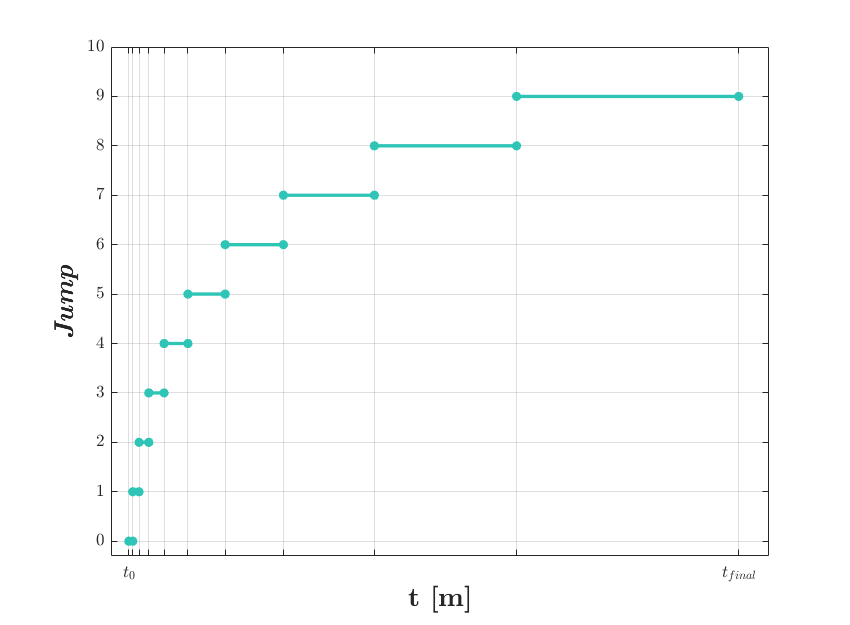
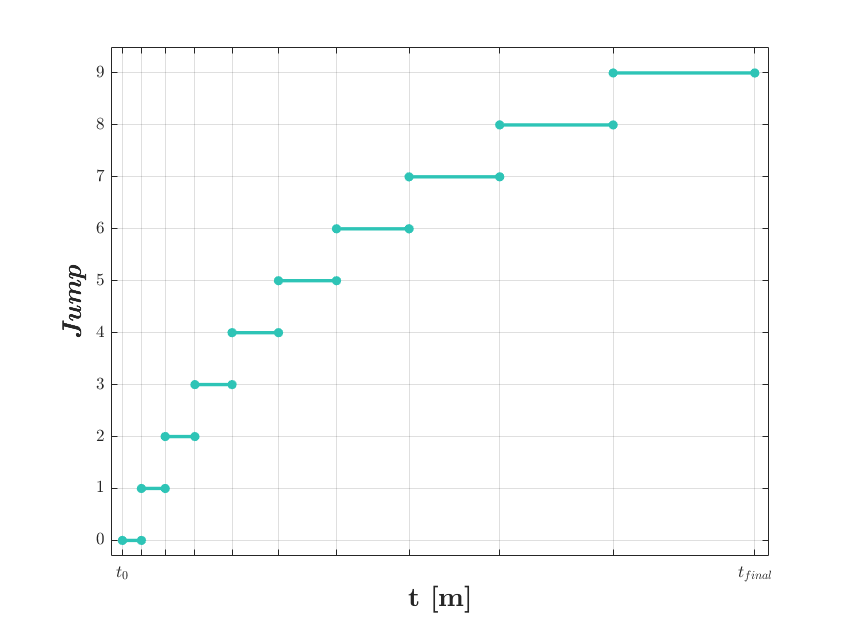
commit

diff --git a/SourceCode/MATLAB/P4.m b/SourceCode/MATLAB/P4.m
@@ -6,11 +6,11 @@ clear; clc; close all;
 
 %init
 Altura = 10;
-V = 0;
+V = 15;
 K = -0.8;
 
 %% run Sim
-out = sim("P4simulink2022a", 20); %8.5
+out = sim("P4simulink2022a", 20.35); %8.5
 
 %% Plot
 figure(1);
@@ -67,42 +67,55 @@ figure(3)
 set(gcf, 'Position',  [100, 100, 680, 500])
 
 subplot(2,1,1)
-plot(out.t,out.y, Color="#2C73D2", LineWidth=1.5);
+plot(out.t,out.y, Color="#2C73D2", LineWidth=1.5); hold on
+plot(20.3576369894,out.y(end),'r.',MarkerSize=15); hold off;
 
 xlabel('\textbf{$\mathbf{t}$ [s]}','interpreter','latex','FontSize',16)
 ylabel('\textbf{$\mathbf{y}$ [m]}','interpreter','latex','FontSize',16);
 
-xlim([0 11.7]);
+xlim([0 21]);
 grid on; grid minor;
 
 subplot(2,1,2)
-plot(out.t,out.vy,Color="#2C73D2",LineWidth=1.5);
+plot(out.t,out.vy,Color="#2C73D2",LineWidth=1.5); hold on
+plot(20.3576369894,out.vy(end),'r.',MarkerSize=15); hold off;
 
 xlabel('\textbf{$\mathbf{t}$ [s]}','interpreter','latex','FontSize',16)
 ylabel('\textbf{$\mathbf{v_y}$ [ms$^{-1}$]}','interpreter','latex','FontSize',16);
 
-xlim([0 11.7]);
+legend({'','\textbf{Marcador de Zeno}'}, ...
+            'Interpreter', 'latex', 'Location','best');
+
+xlim([0 21]);
 grid on; grid minor;
 
-
+%%
 figure(4)
 set(gcf, 'Position',  [100, 100, 680, 500])
 
 subplot(2,1,1)
-plot(out.t,out.Altura, Color="#2C73D2", LineWidth=1.5);
+plot(out.t,out.Altura, Color="#2C73D2", LineWidth=1.5);hold on;
+plot(20.3576369894,0,'r*',MarkerSize=10); hold off;
 
 xlabel('\textbf{$\mathbf{t}$ [s]}','interpreter','latex','FontSize',16)
 ylabel('\textbf{$\mathbf{z}$ [m]}','interpreter','latex','FontSize',16);
 
-xlim([0 11.7]);
+legend({'','\textbf{Marcador de Zeno}'}, ...
+            'Interpreter', 'latex', 'Location','best');
+
+xlim([0 21]);
 grid on; grid minor;
 
 subplot(2,1,2)
-plot(out.t,out.velocidade,Color="#2C73D2",LineWidth=1.5);
+plot(out.t,out.velocidade,Color="#2C73D2",LineWidth=1.5); hold on;
+plot(20.3576369894,0,'r*',MarkerSize=10); hold off;
 
 xlabel('\textbf{$\mathbf{t}$ [s]}','interpreter','latex','FontSize',16)
 ylabel('\textbf{$\mathbf{v_z}$ [ms$^{-1}$]}','interpreter','latex','FontSize',16);
 
-xlim([0 11.7]);
+legend({'','\textbf{Marcador de Zeno}'}, ...
+            'Interpreter', 'latex', 'Location','best');
+
+xlim([0 21]);
 grid on; grid minor;
 

diff --git a/SourceCode/MATLAB/ZenoPlot.m b/SourceCode/MATLAB/ZenoPlot.m
@@ -8,12 +8,12 @@ V = 15;
 K = -0.8;
 
 %% run Sim
-out = sim('P4simulink2022a',172);
+out = sim('P4simulink2022a',21);
 
 %%
 k = 1;
-for i = 1:1:length(out.Altura)
-    if(out.y(i)<=0 || out.y(i)>=2)
+for i = 1:1:length(out.y)
+    if(out.y(i)<=0 || out.y(i)>=1)
         indexArray(k) = i;
         k = k+1;
     end
@@ -42,27 +42,26 @@ ylabel("\textbf{\textit{Jump}}",'interpreter','latex','FontSize',16);
 xlabel("\textbf{t [m]}",'interpreter','latex','FontSize',16)
 
 grid; 
-ylim([-0.3 10]);
-xlim([-5 180])
+ylim([-0.3 9.5]);
+xlim([-0.3 17])
 %%
 
 figure(2);
 set(groot,'defaultAxesTickLabelInterpreter','latex');
 set(gcf, 'Position',  [100, 100, 680, 500])
 
-indexArray = find(out.Altura==0);
 
-plot([0 out.t(indexArray(1))],[0 0], LineWidth=2, Color="#2EC4B6"); hold on;
-plot(0,0,'o',MarkerSize=5,MarkerFaceColor="#2EC4B6", MarkerEdgeColor="#2EC4B6"); hold on;
-plot(out.t(indexArray(1)),0,'o',MarkerSize=5,MarkerFaceColor="#2EC4B6", MarkerEdgeColor="#2EC4B6"); hold on;
+a = find(out.Altura==0);
 
-for i = 2:1:(length(indexArray)-1)
+indexArray = zeros(1,568);
+indexArray(1) = 1;
+indexArray(2:end) = a';
+
+for i = 1:1:12
     plot([out.t(indexArray(i)) out.t(indexArray(i+1))],[i-1 i-1], LineWidth=2, Color="#2EC4B6"); hold on;
     plot(out.t(indexArray(i)),i-1,'o',MarkerSize=5,MarkerFaceColor="#2EC4B6", MarkerEdgeColor="#2EC4B6"); hold on;
     plot(out.t(indexArray(i+1)),i-1,'o',MarkerSize=5,MarkerFaceColor="#2EC4B6", MarkerEdgeColor="#2EC4B6"); hold on;
 end
-%xline()
-hold off
 
 Ticks(1) = 0;
 
@@ -73,20 +72,22 @@ for i = 2:1:length(indexArray)
     Ticks(i) = out.t(indexArray(i));
 end
 
+plot(out.t(indexArray(500)),13,'o',MarkerSize=5,MarkerFaceColor="#2EC4B6", MarkerEdgeColor="#2EC4B6"); hold on;
+hold off
+
 xticks(Ticks);
-yticks([0,1,2,3,4,5,6,7,8,9,10,11]);
+yticks([0,1,2,3,4,5,6,7,8,9,10,11,13]);
 xticklabels({'$t_0$','','','','','','','', ...
     '','','','','','','','','','$T_{Zeno}$'});
-
+yticklabels({'0','1','2','3','4','5','6','7','8','9','10','11','500'})
 xtickangle(0)
 
 ylabel("\textbf{\textit{Jump}}",'interpreter','latex','FontSize',16);
 xlabel("\textbf{t [m]}",'interpreter','latex','FontSize',16)
 
 grid; 
-ylim([-0.3 11.5]);
-xlim([-0.3 21])
-
+ylim([-0.3 13.5]);
+xlim([-0.3 22])
 
 
 

diff --git a/SourceCode/MATLAB/TestGraph.m b/SourceCode/MATLAB/TestGraph.m
@@ -8,7 +8,7 @@ V = 1;
 K = -0.8;
 
 %% run Sim
-out = sim('P4simulink2022a',12);
+out = sim('P4simulink2022a',21);
 %%
 j(1) = 0;
 
